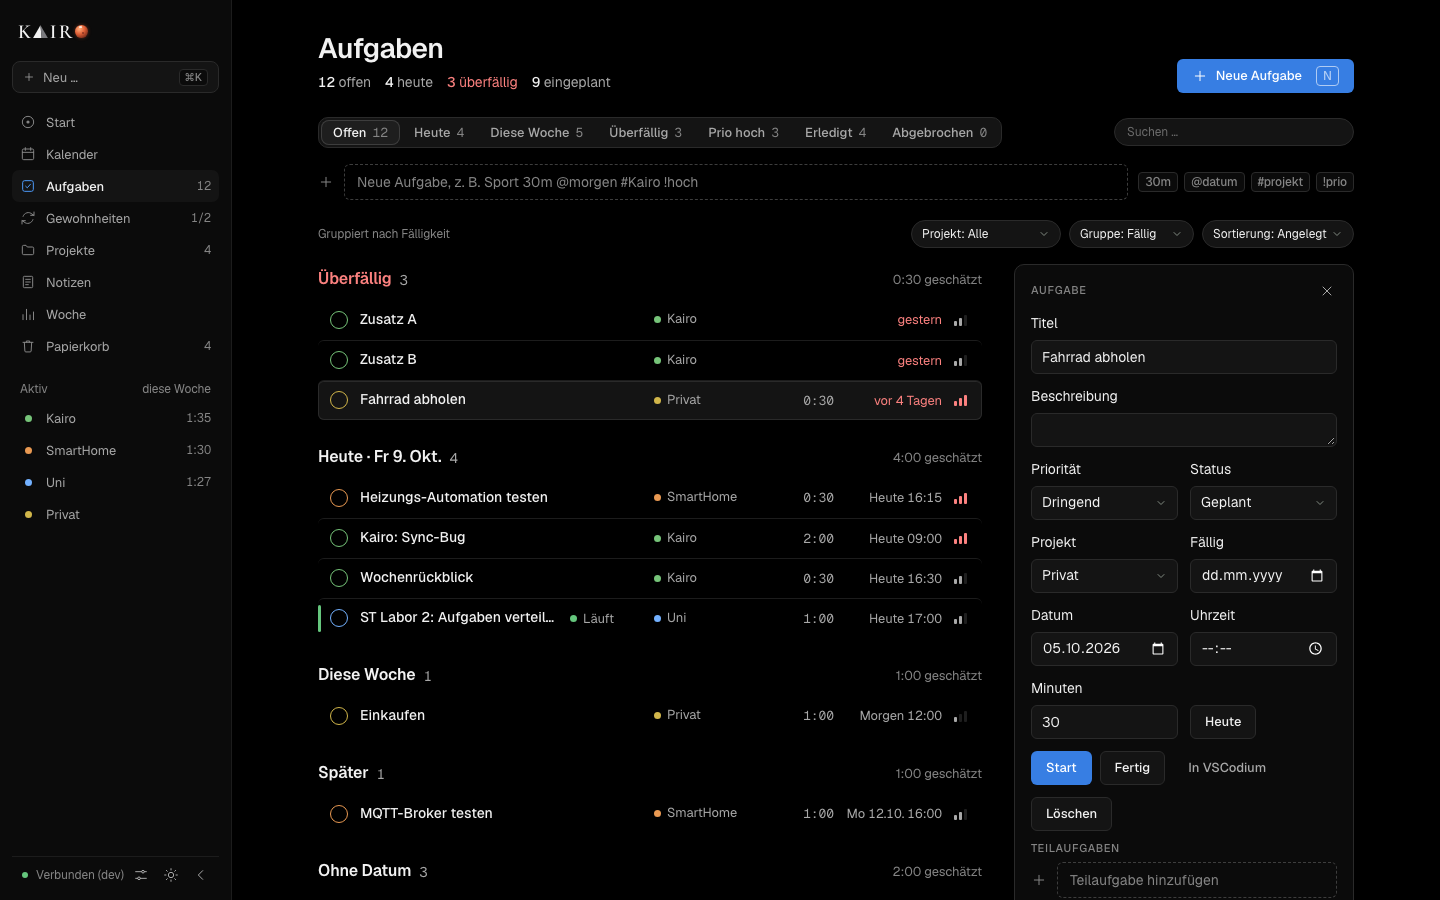
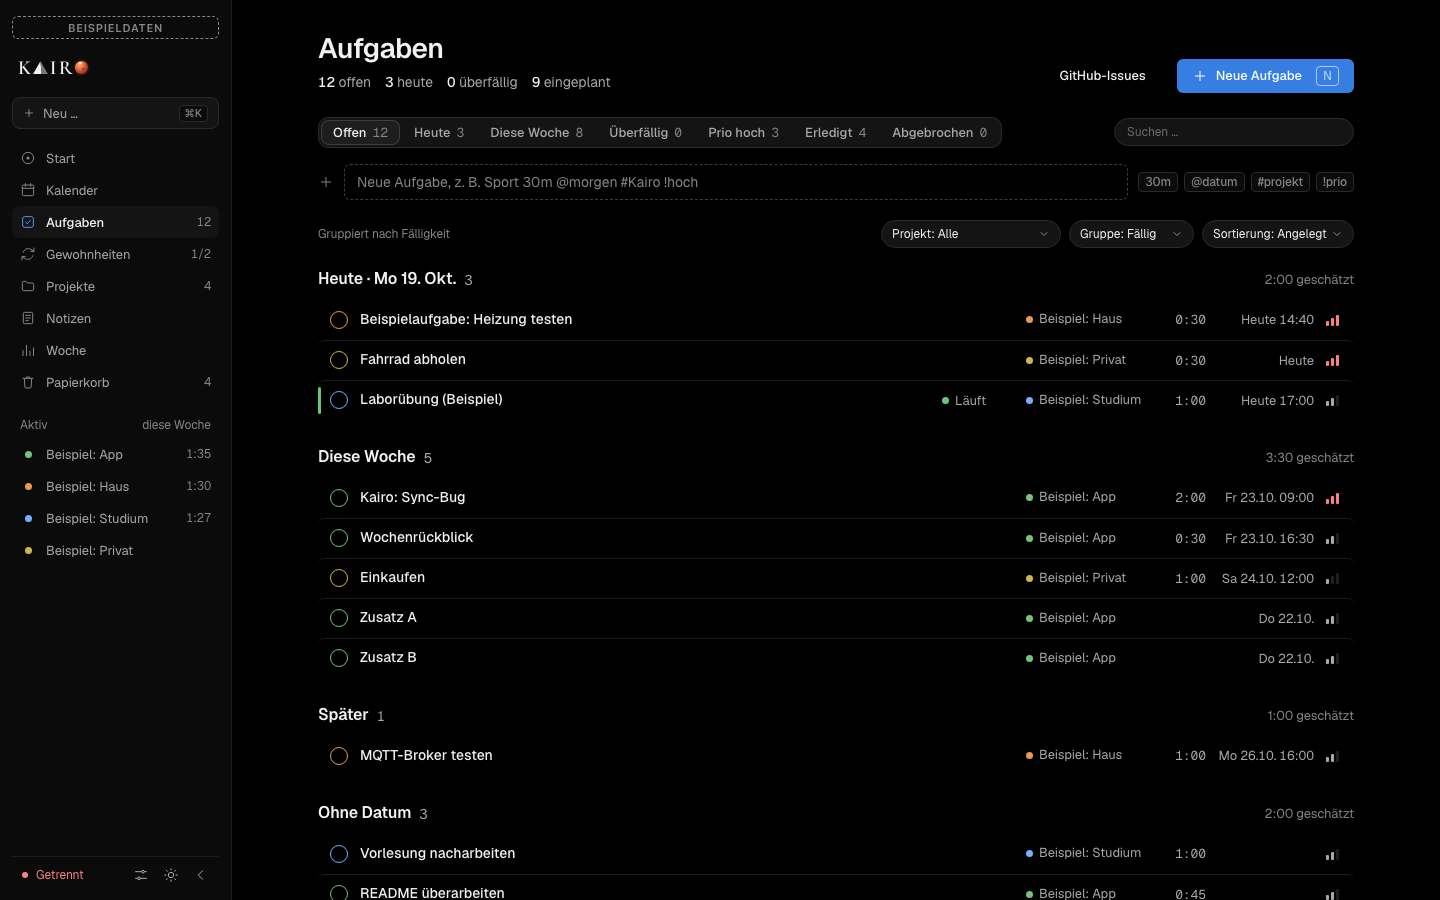
chore: Beispielwerte statt persönlicher Namen in Tests, Doku und Demo-Daten
Tests nutzen Beispielprojekt/Beispielkurs, example/repo und /Users/test,
die Doku neutrale Beispiele und ~/code/kairo. Die Demo-Daten in shot.mjs
sind erkennbar erfunden, jeder Screenshot trägt das Schild „Beispieldaten“;
docs/screenshots neu erzeugt und im README als Demo gekennzeichnet.

diff --git a/docs/design-system/index.html b/docs/design-system/index.html
@@ -166,7 +166,7 @@
     <span class="lbl" id="s-chip">Tag, Status, Zähler</span>
     <p>Mehr als diese drei Arten gibt es nicht. Alles andere (Datum, Dauer, „Niedrig“) ist schlichter Text. Die Farbe steht im Punkt, der Text bleibt neutral; so besteht jede Kombination AA in Dark und Light.</p>
     <div class="stack">
-      <div class="case"><span class="meta">tag · Projekt</span><div class="demo"><span class="tag" style="--c:var(--p-blue)"><span class="dot"></span>Kairo</span><span class="tag" style="--c:var(--p-violet)"><span class="dot"></span>AlgoDat</span><span class="tag" style="--c:var(--p-yellow)"><span class="dot"></span>Bewerbungen</span></div></div>
+      <div class="case"><span class="meta">tag · Projekt</span><div class="demo"><span class="tag" style="--c:var(--p-blue)"><span class="dot"></span>Kairo</span><span class="tag" style="--c:var(--p-violet)"><span class="dot"></span>Beispielkurs</span><span class="tag" style="--c:var(--p-yellow)"><span class="dot"></span>Bewerbungen</span></div></div>
       <div class="case"><span class="meta">status</span><div class="demo"><span class="badge running"><span class="dot"></span>Läuft</span><span class="badge paused"><span class="dot"></span>Pausiert</span><span class="badge overdue"><span class="dot"></span>3 überfällig</span></div></div>
       <div class="case"><span class="meta">zähler · text</span><div class="demo"><span class="count">2/3</span><span class="count">1:35</span><span class="due">Heute 14:30</span><span class="due od">vor 3 Tagen</span><span class="prio high">Hoch</span><span class="prio urgent">Dringend</span><span class="kbd">j</span><span class="kbd">k</span><span class="kbd">x</span></div></div>
     </div>
@@ -180,7 +180,7 @@
       <div class="row" role="option"><button class="cb" role="checkbox" aria-checked="false" aria-label="erledigt"></button><span class="t">Steuererklärung vorbereiten</span><span class="tag" style="--c:var(--p-yellow)"><span class="dot"></span>Finanzen</span><span class="due od">vor 3 Tagen</span><span class="acts"><button class="btn btn-ghost btn-sm">→ Heute</button><button class="btn btn-ghost btn-sm">→ Morgen</button></span></div>
       <div class="group-head"><span class="lbl">Heute</span><span class="count">5</span></div>
       <div class="row running" role="option"><button class="cb" role="checkbox" aria-checked="false" aria-label="erledigt"></button><span class="t">Login reparieren</span><span class="badge running"><span class="dot pulse"></span>Läuft</span><span class="tag" style="--c:var(--p-blue)"><span class="dot"></span>Kairo</span><span class="num meta">0:32</span><span class="acts"><button class="icon-btn" aria-label="Pause"><svg class="ic"><use href="#i-pause"/></svg></button></span></div>
-      <div class="row" role="option"><button class="cb" role="checkbox" aria-checked="false" aria-label="erledigt"></button><span class="t">Normal · nichts hervorgehoben</span><span class="tag" style="--c:var(--p-violet)"><span class="dot"></span>AlgoDat</span><span class="due">14:30</span><span class="count">90 Min</span><span class="acts"><button class="icon-btn" aria-label="Start"><svg class="ic"><use href="#i-play"/></svg></button></span></div>
+      <div class="row" role="option"><button class="cb" role="checkbox" aria-checked="false" aria-label="erledigt"></button><span class="t">Normal · nichts hervorgehoben</span><span class="tag" style="--c:var(--p-violet)"><span class="dot"></span>Beispielkurs</span><span class="due">14:30</span><span class="count">90 Min</span><span class="acts"><button class="icon-btn" aria-label="Start"><svg class="ic"><use href="#i-play"/></svg></button></span></div>
       <div class="row is-hover" role="option"><button class="cb" role="checkbox" aria-checked="false" aria-label="erledigt"></button><span class="t">Hover · Aktionen werden sichtbar</span><span class="prio high">Hoch</span><span class="due">Heute</span><span class="acts"><button class="icon-btn" aria-label="Start"><svg class="ic"><use href="#i-play"/></svg></button><button class="icon-btn" aria-label="In VSCodium"><svg class="ic"><use href="#i-window"/></svg></button><button class="btn btn-danger btn-sm">Löschen</button></span></div>
       <div class="row" role="option" aria-selected="true"><button class="cb" role="checkbox" aria-checked="false" aria-label="erledigt"></button><span class="t">Ausgewählt (j/k) · blauer Balken</span><span class="count">1/3</span><span class="due">Morgen</span><span class="acts"><button class="icon-btn" aria-label="Start"><svg class="ic"><use href="#i-play"/></svg></button><span class="kbd">x</span></span></div>
       <div class="row" role="option"><button class="cb is-focus" role="checkbox" aria-checked="false" aria-label="erledigt"></button><span class="t">Tastaturfokus auf dem Element, nicht auf der Zeile</span><span class="due">Mi</span></div>
@@ -199,7 +199,7 @@
         <div class="f-acts"><button class="btn btn-primary"><svg class="ic"><use href="#i-pause"/></svg>Pause</button><button class="btn btn-secondary"><svg class="ic"><use href="#i-check"/></svg>Fertig</button><button class="btn btn-ghost"><svg class="ic"><use href="#i-window"/></svg>In VSCodium</button></div>
       </div>
       <div class="card focus">
-        <div class="f-meta"><span class="lbl">Als Nächstes · 14:30</span><span class="tag" style="--c:var(--p-violet)"><span class="dot"></span>AlgoDat</span></div>
+        <div class="f-meta"><span class="lbl">Als Nächstes · 14:30</span><span class="tag" style="--c:var(--p-violet)"><span class="dot"></span>Beispielkurs</span></div>
         <div class="f-title">Musterprüfung A lösen</div>
         <div class="f-acts"><button class="btn btn-primary"><svg class="ic"><use href="#i-play"/></svg>Start</button></div>
       </div>
@@ -210,7 +210,7 @@
     <span class="lbl" id="s-cal">Kalendereinträge</span>
     <p>Termin durchgezogen, Task gestrichelt; Projektfarbe als 3-px-Balken, erledigt blasser.</p>
     <div class="demo" style="align-items:flex-start;gap:var(--sp-4)">
-      <div class="ev" style="--c:var(--p-violet);width:200px">AlgoDat Vorlesung<br><span class="meta">08:30–10:00 · HS 1</span></div>
+      <div class="ev" style="--c:var(--p-violet);width:200px">Beispielkurs Vorlesung<br><span class="meta">08:30–10:00 · HS 1</span></div>
       <div class="ev task" style="--c:var(--p-blue);width:200px">Login reparieren<br><span class="meta">10:15 · 60 Min</span></div>
       <div class="ev task done" style="--c:var(--p-green);width:200px">Sport<br><span class="meta">Ganztag · erledigt</span></div>
     </div>
@@ -234,7 +234,7 @@
         <div class="dlg-head"><h3 class="heading" id="d1">Projekt bearbeiten</h3><button class="icon-btn" aria-label="Schließen"><svg class="ic"><use href="#i-x"/></svg></button></div>
         <div class="dlg-body">
           <div class="field"><label for="d-n">Name</label><input id="d-n" class="input is-focus" value="Kairo"></div>
-          <div class="field"><label for="d-p">Ordner</label><input id="d-p" class="input" value="~/code/personal/Kairo"><span class="f-msg">Muss existieren.</span></div>
+          <div class="field"><label for="d-p">Ordner</label><input id="d-p" class="input" value="~/code/kairo"><span class="f-msg">Muss existieren.</span></div>
         </div>
         <div class="dlg-foot"><button class="btn btn-danger spacer">Löschen</button><button class="btn btn-ghost">Abbrechen</button><button class="btn btn-primary">Speichern</button></div>
       </div></div>
@@ -253,11 +253,11 @@
         <div class="x-head"><h1>Kairo</h1><span class="meta"><span class="dot" style="--c:var(--x-ok);display:inline-block"></span> v0.1</span></div>
         <div class="tabs" role="tablist"><button role="tab" aria-selected="true">Heute</button><button role="tab" aria-selected="false">Projekte</button></div>
         <div class="x-body">
-          <div class="x-notice" role="status">Timer läuft für „AlgoDat“, du bist in „Kairo“.
-            <div style="margin-top:8px"><button class="btn btn-secondary btn-sm"><svg class="ic"><use href="#i-window"/></svg>Zu „AlgoDat“ wechseln</button></div></div>
+          <div class="x-notice" role="status">Timer läuft für „Beispielkurs“, du bist in „Kairo“.
+            <div style="margin-top:8px"><button class="btn btn-secondary btn-sm"><svg class="ic"><use href="#i-window"/></svg>Zu „Beispielkurs“ wechseln</button></div></div>
           <div class="x-timer"><span class="badge running"><span class="dot pulse"></span>Läuft</span>
             <div class="x-task">Musterprüfung A lösen</div>
-            <div class="x-sub"><span class="tag" style="--c:var(--p-violet)"><span class="dot"></span>AlgoDat</span><span class="x-time">0:32:14</span></div>
+            <div class="x-sub"><span class="tag" style="--c:var(--p-violet)"><span class="dot"></span>Beispielkurs</span><span class="x-time">0:32:14</span></div>
             <div class="demo" style="margin-top:10px;gap:var(--sp-2)"><button class="btn btn-primary btn-sm" style="flex:1"><svg class="ic"><use href="#i-pause"/></svg>Pause</button><button class="btn btn-secondary btn-sm" style="flex:1"><svg class="ic"><use href="#i-check"/></svg>Fertig</button></div></div>
           <div><div class="group-head" style="padding:0 var(--sp-2) var(--sp-1)"><span class="lbl">Heute</span><span class="count">3 offen</span></div>
             <div class="list" role="listbox" aria-label="Agenda">

diff --git a/frontend/test/quickAdd.test.ts b/frontend/test/quickAdd.test.ts
@@ -2,7 +2,7 @@
 import assert from 'node:assert/strict'
 import { parseQuickAdd as p } from '../src/lib/quickAdd.ts'
 
-const projects = [{ id: 'k', name: 'Kairo' }, { id: 's', name: 'SmartHome' }, { id: 'c', name: 'code-stats.nvim' }]
+const projects = [{ id: 'k', name: 'Kairo' }, { id: 's', name: 'Haushalt' }, { id: 'c', name: 'code-stats.nvim' }]
 const today = '2026-10-07' // Mittwoch
 const f = (s: string) => p(s, projects, today)
 
@@ -29,13 +29,13 @@ assert.equal(f('Lampen @31.2.').title, 'Lampen @31.2.') // kein echtes Datum
 assert.deepEqual([f('x @14:30').date, f('x @14:30').time], ['2026-10-07', '14:30'])
 assert.deepEqual([f('x @morgen @9:05').date, f('x @morgen @9:05').time], ['2026-10-08', '09:05'])
 assert.equal(f('x @25:00').title, 'x @25:00')
-assert.equal(f('Lampen #smart').project?.id, 's') // Anfang reicht
-assert.equal(f('Lampen #SmartHome').project?.id, 's')
+assert.equal(f('Lampen #haus').project?.id, 's') // Anfang reicht
+assert.equal(f('Lampen #Haushalt').project?.id, 's')
 assert.equal(f('Lampen #codestats').project?.id, 'c') // Satzzeichen egal
 assert.equal(f('Lampen #unbekannt').title, 'Lampen #unbekannt') // kein Treffer bleibt im Titel
 assert.equal(f('Lampen !hoch').priority, 'HIGH')
 assert.equal(f('Fertig!').priority, null)
-assert.deepEqual(f('Lampen kaufen 1h @fr 18:00 #SmartHome !dringend'), { title: 'Lampen kaufen 18:00', minutes: 60, date: '2026-10-09', time: null, project: projects[1], priority: 'URGENT' })
+assert.deepEqual(f('Lampen kaufen 1h @fr 18:00 #Haushalt !dringend'), { title: 'Lampen kaufen 18:00', minutes: 60, date: '2026-10-09', time: null, project: projects[1], priority: 'URGENT' })
 assert.equal(f('#Kairo').title, '') // nur Token: kein Titel, die Ansicht legt nichts an
 console.log('quickAdd: ok')
 

diff --git a/extension/src/core.test.ts b/extension/src/core.test.ts
@@ -16,9 +16,9 @@ assert.equal(matchProject(winProjects, "C:\\Users\\x\\Notes", "C:\\Users\\x", tr
 assert.equal(matchProject(winProjects, "C:\\Code\\Kairo2", "C:\\Users\\x", true), undefined);
 assert.equal(matchProject(projects, "/tmp"), undefined);
 const home = [p("tilde", "~/code/kairo"), p("tilde2", "~code")];
-assert.equal(matchProject(home, "/Users/m/code/kairo/backend", "/Users/m")?.id, "tilde"); // ~ wird erweitert
-assert.equal(matchProject(home, "/Users/m/code", "/Users/m"), undefined); // "~code" ist kein Home-Pfad
-assert.equal(expandHome("~", "/Users/m"), "/Users/m");
+assert.equal(matchProject(home, "/Users/test/code/kairo/backend", "/Users/test")?.id, "tilde"); // ~ wird erweitert
+assert.equal(matchProject(home, "/Users/test/code", "/Users/test"), undefined); // "~code" ist kein Home-Pfad
+assert.equal(expandHome("~", "/Users/test"), "/Users/test");
 assert.equal(isIdle(0, 600_000, 600_000), true);
 assert.equal(isIdle(0, 599_999, 600_000), false);
 assert.equal(isIdle(0, 1e9, 0), false); // 0 = aus

diff --git a/backend/internal/api/calendar_test.go b/backend/internal/api/calendar_test.go
@@ -33,7 +33,7 @@ func newCalendarRouter(t *testing.T) http.Handler {
 func TestCalendarCRUDAndWindow(t *testing.T) {
 	h := newCalendarRouter(t)
 
-	rec := call(h, "POST", "/api/calendar/events", `{"title":"AlgoDat Vorlesung","location":"HS 1",
+	rec := call(h, "POST", "/api/calendar/events", `{"title":"Beispiel-Vorlesung","location":"HS 1",
 		"start_at":"2026-10-07T08:30:00Z","end_at":"2026-10-07T10:00:00Z",
 		"recurrence_rule":"FREQ=WEEKLY;BYDAY=WE","recurrence_exdates":["2026-10-14"]}`)
 	if rec.Code != 201 {
@@ -150,11 +150,11 @@ func TestCalendarOccurrences(t *testing.T) {
 
 const importICS = "BEGIN:VCALENDAR\r\nVERSION:2.0\r\n" +
 	"BEGIN:VEVENT\r\nUID:a@uni\r\nSUMMARY:Arzt\r\nDTSTART:20261009T120000Z\r\nDTEND:20261009T130000Z\r\nEND:VEVENT\r\n" +
-	"BEGIN:VEVENT\r\nUID:w@uni\r\nSUMMARY:AlgoDat\r\nLOCATION:HS 1\r\nDTSTART:20261007T083000Z\r\nDTEND:20261007T100000Z\r\n" +
+	"BEGIN:VEVENT\r\nUID:w@uni\r\nSUMMARY:Beispielkurs\r\nLOCATION:HS 1\r\nDTSTART:20261007T083000Z\r\nDTEND:20261007T100000Z\r\n" +
 	"RRULE:FREQ=WEEKLY;BYDAY=WE;UNTIL=20261031T000000Z\r\nEXDATE:20261014T083000Z\r\nEND:VEVENT\r\n" +
 	"BEGIN:VEVENT\r\nUID:d@uni\r\nSUMMARY:Ferien\r\nDTSTART;VALUE=DATE:20261224\r\nDTEND;VALUE=DATE:20261227\r\nEND:VEVENT\r\n" +
 	"BEGIN:VEVENT\r\nUID:m@uni\r\nSUMMARY:Monatlich\r\nDTSTART:20261001T080000Z\r\nDTEND:20261001T090000Z\r\nRRULE:FREQ=MONTHLY\r\nEND:VEVENT\r\n" +
-	"BEGIN:VEVENT\r\nUID:w@uni\r\nSUMMARY:AlgoDat verschoben\r\nRECURRENCE-ID:20261021T083000Z\r\nDTSTART:20261022T083000Z\r\nDTEND:20261022T100000Z\r\nEND:VEVENT\r\n" +
+	"BEGIN:VEVENT\r\nUID:w@uni\r\nSUMMARY:Beispielkurs verschoben\r\nRECURRENCE-ID:20261021T083000Z\r\nDTSTART:20261022T083000Z\r\nDTEND:20261022T100000Z\r\nEND:VEVENT\r\n" +
 	"END:VCALENDAR\r\n"
 
 func TestCalendarImportICSIsIdempotent(t *testing.T) {
@@ -190,8 +190,8 @@ func TestCalendarImportICSIsIdempotent(t *testing.T) {
 
 	// Projekt am Termin setzen; ein erneuter Import ändert Felder aus der ICS, lässt das Projekt aber stehen.
 	var p projectDTO
-	_ = json.Unmarshal(call(h, "POST", "/api/projects", `{"name":"AlgoDat"}`).Body.Bytes(), &p)
-	call(h, "PATCH", "/api/calendar/events/"+events["AlgoDat"].ID, `{"project_id":"`+p.ID+`"}`)
+	_ = json.Unmarshal(call(h, "POST", "/api/projects", `{"name":"Beispielkurs"}`).Body.Bytes(), &p)
+	call(h, "PATCH", "/api/calendar/events/"+events["Beispielkurs"].ID, `{"project_id":"`+p.ID+`"}`)
 
 	res = doImport(strings.Replace(importICS, "SUMMARY:Arzt", "SUMMARY:Zahnarzt", 1))
 	if res.Created != 0 || res.Updated != 4 || res.Skipped != 1 {
@@ -201,7 +201,7 @@ func TestCalendarImportICSIsIdempotent(t *testing.T) {
 	if _, ok := events["Zahnarzt"]; len(events) != 4 || !ok {
 		t.Errorf("Duplikate oder fehlendes Update: %+v", events)
 	}
-	if pid := events["AlgoDat"].ProjectID; pid == nil || *pid != p.ID {
+	if pid := events["Beispielkurs"].ProjectID; pid == nil || *pid != p.ID {
 		t.Errorf("Projekt nach Re-Import: %v", pid)
 	}
 
@@ -210,7 +210,7 @@ func TestCalendarImportICSIsIdempotent(t *testing.T) {
 	_ = json.Unmarshal(call(h, "GET", "/api/calendar/occurrences?"+q, "").Body.Bytes(), &occ)
 	var starts []string
 	for _, o := range occ {
-		if o.Title == "AlgoDat" {
+		if o.Title == "Beispielkurs" {
 			starts = append(starts, o.OccurrenceStart)
 		}
 	}

diff --git a/backend/internal/autostart/autostart_test.go b/backend/internal/autostart/autostart_test.go
@@ -9,7 +9,7 @@ import (
 )
 
 func TestPlistIsValidXMLWithEnvAndEscaping(t *testing.T) {
-	p := string(Plist("/Users/x/My & Bin/kairo", "/Users/x/Library/Logs/kairo.log",
+	p := string(Plist("/Users/test/My & Bin/kairo", "/Users/test/Library/Logs/kairo.log",
 		map[string]string{"KAIRO_PORT": "9000", "KAIRO_DB_PATH": "/a<b>/k.db"}))
 	dec := xml.NewDecoder(strings.NewReader(p))
 	dec.Strict = false
@@ -53,8 +53,8 @@ func TestInstallRefusesGoRunBinary(t *testing.T) {
 }
 
 func TestPaths(t *testing.T) {
-	plist, log := launchdPaths("/Users/x")
-	if plist != filepath.FromSlash("/Users/x/Library/LaunchAgents/app.kairo.backend.plist") || log != filepath.FromSlash("/Users/x/Library/Logs/kairo.log") {
+	plist, log := launchdPaths("/Users/test")
+	if plist != filepath.FromSlash("/Users/test/Library/LaunchAgents/app.kairo.backend.plist") || log != filepath.FromSlash("/Users/test/Library/Logs/kairo.log") {
 		t.Errorf("Paths = %s, %s", plist, log)
 	}
 }
@@ -73,10 +73,10 @@ func TestUnitQuotesAndEnv(t *testing.T) {
 }
 
 func TestScriptQuotesPaths(t *testing.T) {
-	s := string(Script(`C:\Program Files\kairo.exe`, `C:\Users\x\kairo.log`, map[string]string{"KAIRO_PORT": "9000"}))
+	s := string(Script(`C:\Program Files\kairo.exe`, `C:\Users\test\kairo.log`, map[string]string{"KAIRO_PORT": "9000"}))
 	for _, want := range []string{
 		`sh.Environment("Process")("KAIRO_PORT") = "9000"`,
-		`sh.Run "cmd /c """"C:\Program Files\kairo.exe"" >> ""C:\Users\x\kairo.log"" 2>&1""", 0, False`,
+		`sh.Run "cmd /c """"C:\Program Files\kairo.exe"" >> ""C:\Users\test\kairo.log"" 2>&1""", 0, False`,
 	} {
 		if !strings.Contains(s, want) {
 			t.Errorf("fehlt %q in\n%s", want, s)

diff --git a/backend/internal/api/resources_test.go b/backend/internal/api/resources_test.go
@@ -29,12 +29,12 @@ func newResourcesRouter(t *testing.T) http.Handler {
 func TestResourcesCRUDAndFilters(t *testing.T) {
 	h := newResourcesRouter(t)
 	var task taskDTO
-	_ = json.Unmarshal(call(h, "POST", "/api/tasks", `{"title":"AlgoDat"}`).Body.Bytes(), &task)
+	_ = json.Unmarshal(call(h, "POST", "/api/tasks", `{"title":"Beispielprojekt"}`).Body.Bytes(), &task)
 	var project projectDTO
 	_ = json.Unmarshal(call(h, "POST", "/api/projects", `{"name":"Uni"}`).Body.Bytes(), &project)
 
 	rec := call(h, "POST", "/api/resources", `{"task_id":"`+task.ID+`","type":"FILE",
-		"target":"~/Documents/Uni/AuD_Musterprf_A.pdf","label":"Musterprüfung A"}`)
+		"target":"~/Documents/beispiel/musterpruefung.pdf","label":"Musterprüfung A"}`)
 	if rec.Code != 201 {
 		t.Fatalf("POST = %d %s", rec.Code, rec.Body)
 	}

diff --git a/backend/internal/api/projects_test.go b/backend/internal/api/projects_test.go
@@ -38,7 +38,7 @@ func TestProjectsCRUD(t *testing.T) {
 	h := newProjectsRouter(t)
 
 	dir := t.TempDir()
-	rec := call(h, "POST", "/api/projects", `{"name":"AlgoDat","local_path":`+strconv.Quote(dir)+`}`)
+	rec := call(h, "POST", "/api/projects", `{"name":"Beispielprojekt","local_path":`+strconv.Quote(dir)+`}`)
 	if rec.Code != 201 {
 		t.Fatalf("POST = %d %s", rec.Code, rec.Body)
 	}
@@ -58,7 +58,7 @@ func TestProjectsCRUD(t *testing.T) {
 		t.Fatalf("PATCH = %d %s", rec.Code, rec.Body)
 	}
 	_ = json.Unmarshal(rec.Body.Bytes(), &p)
-	if p.Status != "PAUSED" || p.LocalPath != nil || p.Name != "AlgoDat" {
+	if p.Status != "PAUSED" || p.LocalPath != nil || p.Name != "Beispielprojekt" {
 		t.Errorf("PATCH-Antwort = %+v", p)
 	}
 

diff --git a/backend/internal/github/github_test.go b/backend/internal/github/github_test.go
@@ -56,8 +56,8 @@ func TestRepoIssuesSkipsPullRequests(t *testing.T) {
 
 func TestRepoFromRemote(t *testing.T) {
 	for in, want := range map[string]string{
-		"git@github.com:Mirac61/Kairo.git":           "Mirac61/Kairo",
-		"ssh://git@github.com/bug-bazaar/bugless":    "bug-bazaar/bugless",
+		"git@github.com:example/repo.git":            "example/repo",
+		"ssh://git@github.com/example/other-repo":    "example/other-repo",
 		"https://github.com/nestjs/starter.git":      "nestjs/starter",
 		"https://github.com/o/r/":                    "o/r",
 		"ssh://git@codeberg.org/user/privat-notizen": "",

diff --git a/backend/internal/service/project_test.go b/backend/internal/service/project_test.go
@@ -42,11 +42,11 @@ func TestProjectCreateDefaultsAndValidation(t *testing.T) {
 	svc, _ := newSvc()
 	ctx := context.Background()
 
-	p, err := svc.Create(ctx, CreateProjectInput{Name: "  AlgoDat  ", LocalPath: ptr("  ")})
+	p, err := svc.Create(ctx, CreateProjectInput{Name: "  Beispielprojekt  ", LocalPath: ptr("  ")})
 	if err != nil {
 		t.Fatal(err)
 	}
-	if p.Name != "AlgoDat" || p.Status != domain.ProjectActive || p.LocalPath != nil || p.ID == "" {
+	if p.Name != "Beispielprojekt" || p.Status != domain.ProjectActive || p.LocalPath != nil || p.ID == "" {
 		t.Errorf("Create = %+v", p)
 	}
 

diff --git a/backend/internal/repository/project_test.go b/backend/internal/repository/project_test.go
@@ -23,7 +23,7 @@ func newProjectRepo(t *testing.T) *ProjectRepository {
 func TestProjectRepositoryRoundTrip(t *testing.T) {
 	ctx := context.Background()
 	r := newProjectRepo(t)
-	path := "~/code/personal/Kairo"
+	path := "~/code/kairo"
 	now := time.Date(2026, 10, 6, 12, 0, 0, 123, time.UTC)
 	p := domain.Project{ID: "p1", Name: "Kairo", Description: "d", LocalPath: &path,
 		Status: domain.ProjectActive, Color: "blue", CreatedAt: now, UpdatedAt: now}

diff --git a/backend/internal/ics/ics_test.go b/backend/internal/ics/ics_test.go
@@ -64,7 +64,7 @@ func TestParseSingleEvent(t *testing.T) {
 func TestParseWeeklyWithExdates(t *testing.T) {
 	data := calendar(vevent(
 		"UID:w1",
-		"SUMMARY:AlgoDat",
+		"SUMMARY:Beispielkurs",
 		"DTSTART;TZID=Europe/Berlin:20261005T083000",
 		"DTEND;TZID=Europe/Berlin:20261005T100000",
 		"RRULE:FREQ=WEEKLY;BYDAY=MO,WE;UNTIL=20270130T225959Z;WKST=MO",

diff --git a/docs/01_PRODUCT_REQUIREMENTS.md b/docs/01_PRODUCT_REQUIREMENTS.md
@@ -1,5 +1,7 @@
 # Product Requirements
 
+Alle Namen, Projekte und Pfade in diesen Dokumenten sind Beispiele.
+
 # 1. Calendar
 
 Der Kalender unterstützt:
@@ -313,12 +315,12 @@ Beispiel:
 
 ``` text
 Task:
-AlgoDat Musterprüfung A
+Beispielkurs Musterprüfung A
 
 Resources:
-FILE   ~/Documents/Uni/AlgoDat/Pruefungen/AuD_Musterprf_A.pdf
-FILE   ~/Documents/Uni/AlgoDat/Pruefungen/AuD_Musterprf_A_l.pdf
-FOLDER ~/Documents/Uni/AlgoDat/CodeAlgorithmen
+FILE   ~/Documents/Uni/Beispielkurs/Pruefungen/Musterpruefung_A.pdf
+FILE   ~/Documents/Uni/Beispielkurs/Pruefungen/Musterpruefung_A_l.pdf
+FOLDER ~/Documents/Uni/Beispielkurs/Code
 URL    https://moodle...
 ```
 
@@ -363,14 +365,14 @@ Beispiel:
 ``` text
 TODAY
 
-08:30  📅 AlgoDat Vorlesung
+08:30  📅 Beispielkurs Vorlesung
 
-10:15  🔴 AlgoDat Musterprüfung A
+10:15  🔴 Beispielkurs Musterprüfung A
        90 min
 
 12:30  📅 Mittagessen
 
-14:00  💻 Activitytracker Login
+14:00  💻 Beispielprojekt Login
        60 min
 
 18:00  🔁 Sport
@@ -473,7 +475,7 @@ Sie zeigt:
 ``` text
 CURRENT TASK
 
-AlgoDat — Musterprüfung A
+Beispielkurs — Musterprüfung A
 
 90 min geplant
 32 min gearbeitet
@@ -483,14 +485,14 @@ AlgoDat — Musterprüfung A
 
 Resources
 
-📄 AuD_Musterprf_A.pdf
-📄 AuD_Musterprf_A_l.pdf
-📁 CodeAlgorithmen
+📄 Musterpruefung_A.pdf
+📄 Musterpruefung_A_l.pdf
+📁 Code
 🌐 Moodle
 
 NEXT
 
-Activitytracker — Login reparieren
+Beispielprojekt — Login reparieren
 ```
 
 Stand der Extension: Die Ansicht hat die Tabs „Heute“ und „Projekte“. „Heute“
@@ -511,17 +513,17 @@ Statistik und Rückblick stehen nur in der WebUI.
 Wenn der aktuelle Workspace einem Project entspricht:
 
 ``` text
-~/code/uni/activitytracker
+~/code/uni/beispielprojekt
         ↓
-Project: Activitytracker
+Project: Beispielprojekt
 
-~/Documents/Uni/AlgoDat
+~/Documents/Uni/Beispielkurs
         ↓
-Project: AlgoDat
+Project: Beispielkurs
 ```
 
 Ein Workspace gilt auch dann als erkannt, wenn ein Unterordner geöffnet
-wird (z. B. `~/Documents/Uni/AlgoDat/CodeAlgorithmen` → AlgoDat).
+wird (z. B. `~/Documents/Uni/Beispielkurs/Code` → Beispielkurs).
 
 Die Erkennung nutzt `local_path`; ein führendes `~` steht für das
 Home-Verzeichnis. Passen mehrere Projekte, gewinnt der längste passende
